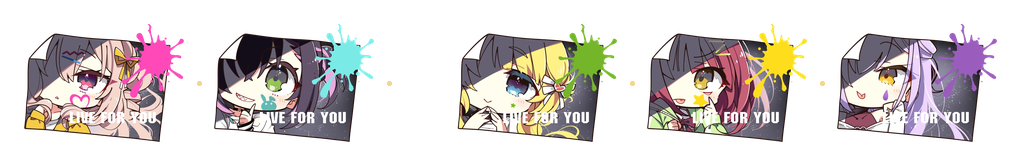
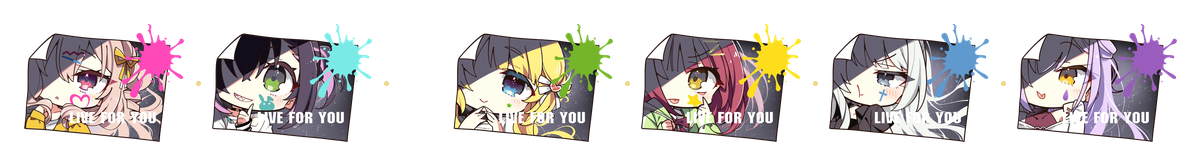
fix: six-card divider (miku card is miku-gj), normalized sizes

diff --git a/README.md b/README.md
@@ -20,8 +20,8 @@
 
 | 文件 | 样式 | 尺寸 |
 |---|---|---|
-| `docs/divider.png` | 六人 SD 头像 + 金色圆环 | 760×150 |
-| `docs/divider-cards.png` | 五张 LIVE FOR YOU 相纸卡 | 696×160 |
+| `docs/divider.png` | 六人 SD 头像 + 金色圆环 | 870×148 |
+| `docs/divider-cards.png` | 六张 LIVE FOR YOU 相纸卡 | 1201×166 |
 
 ![头像环](docs/divider.png)
 
